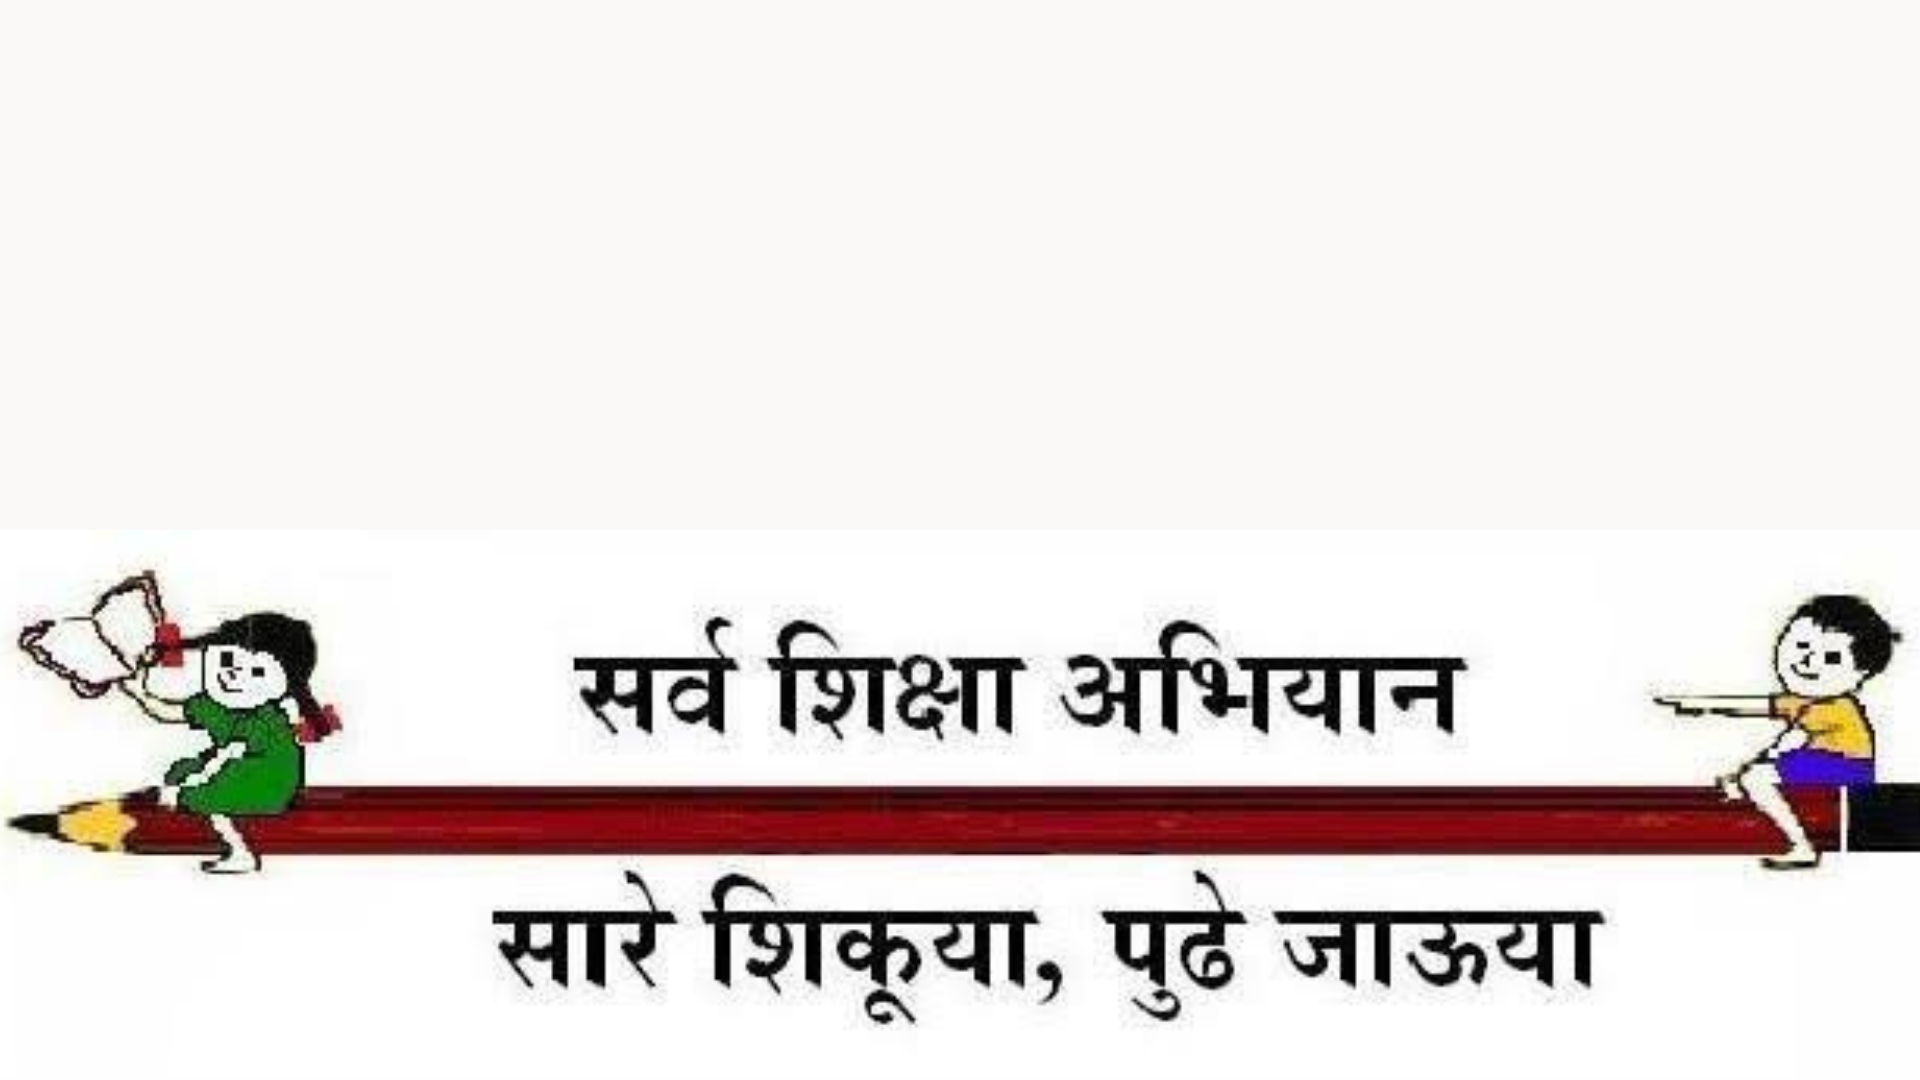
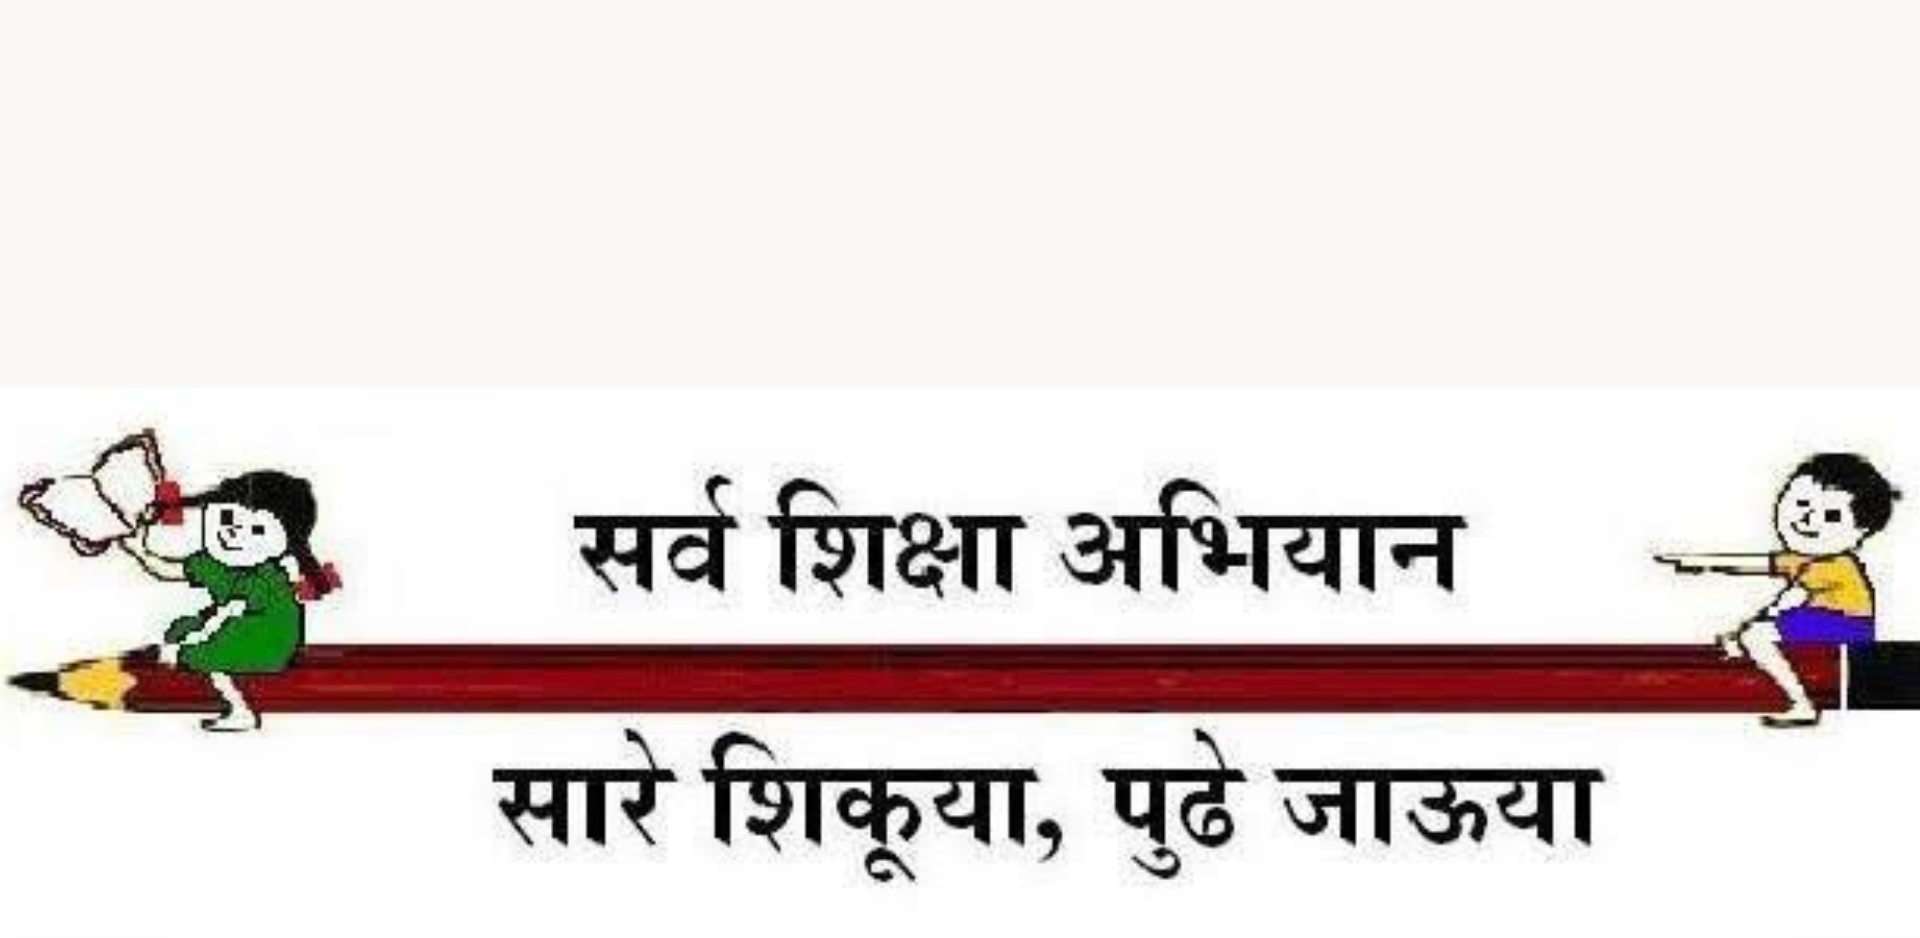
site

Changed region(s): [[0.0, 0.4638, 1.0, 0.9584]]

diff --git a/mainapp/static/mainapp/home.css b/mainapp/static/mainapp/home.css
@@ -14,7 +14,7 @@
 .inner-container>*:first-child {
     display: flex;
     width: 100%;
-    background: url("../Images/backgrounds/coverpage.png");
+    background: url("../Images/backgrounds/cover.jpg");
     border-radius: 0;
     min-height: 300px;
     align-items: center;
